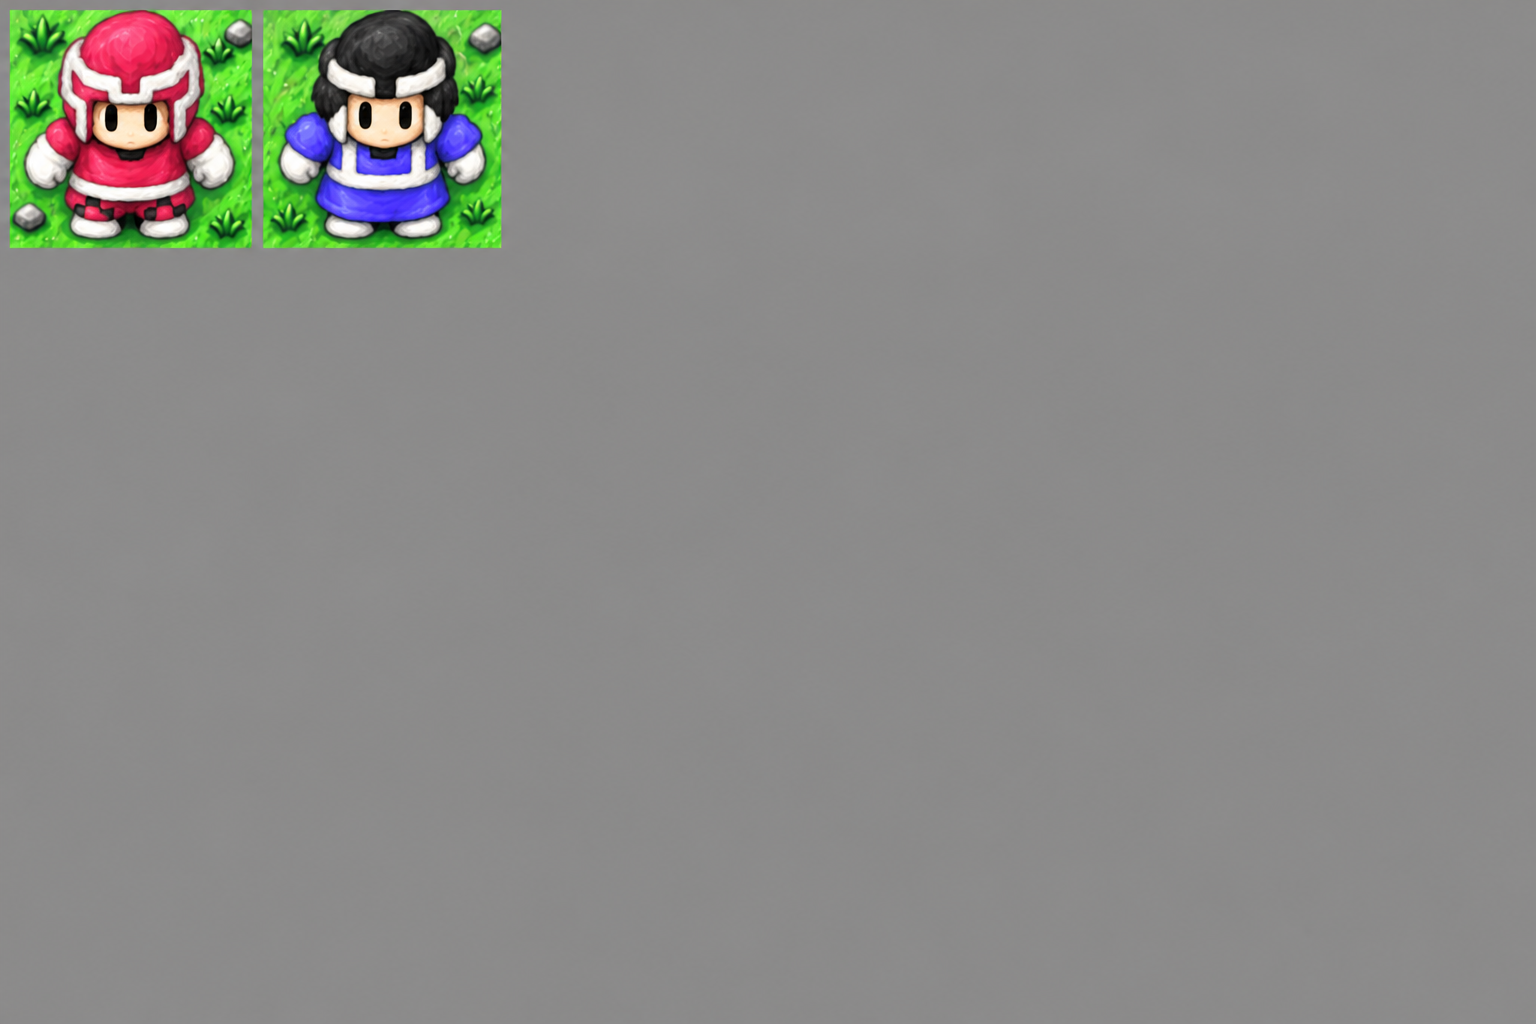
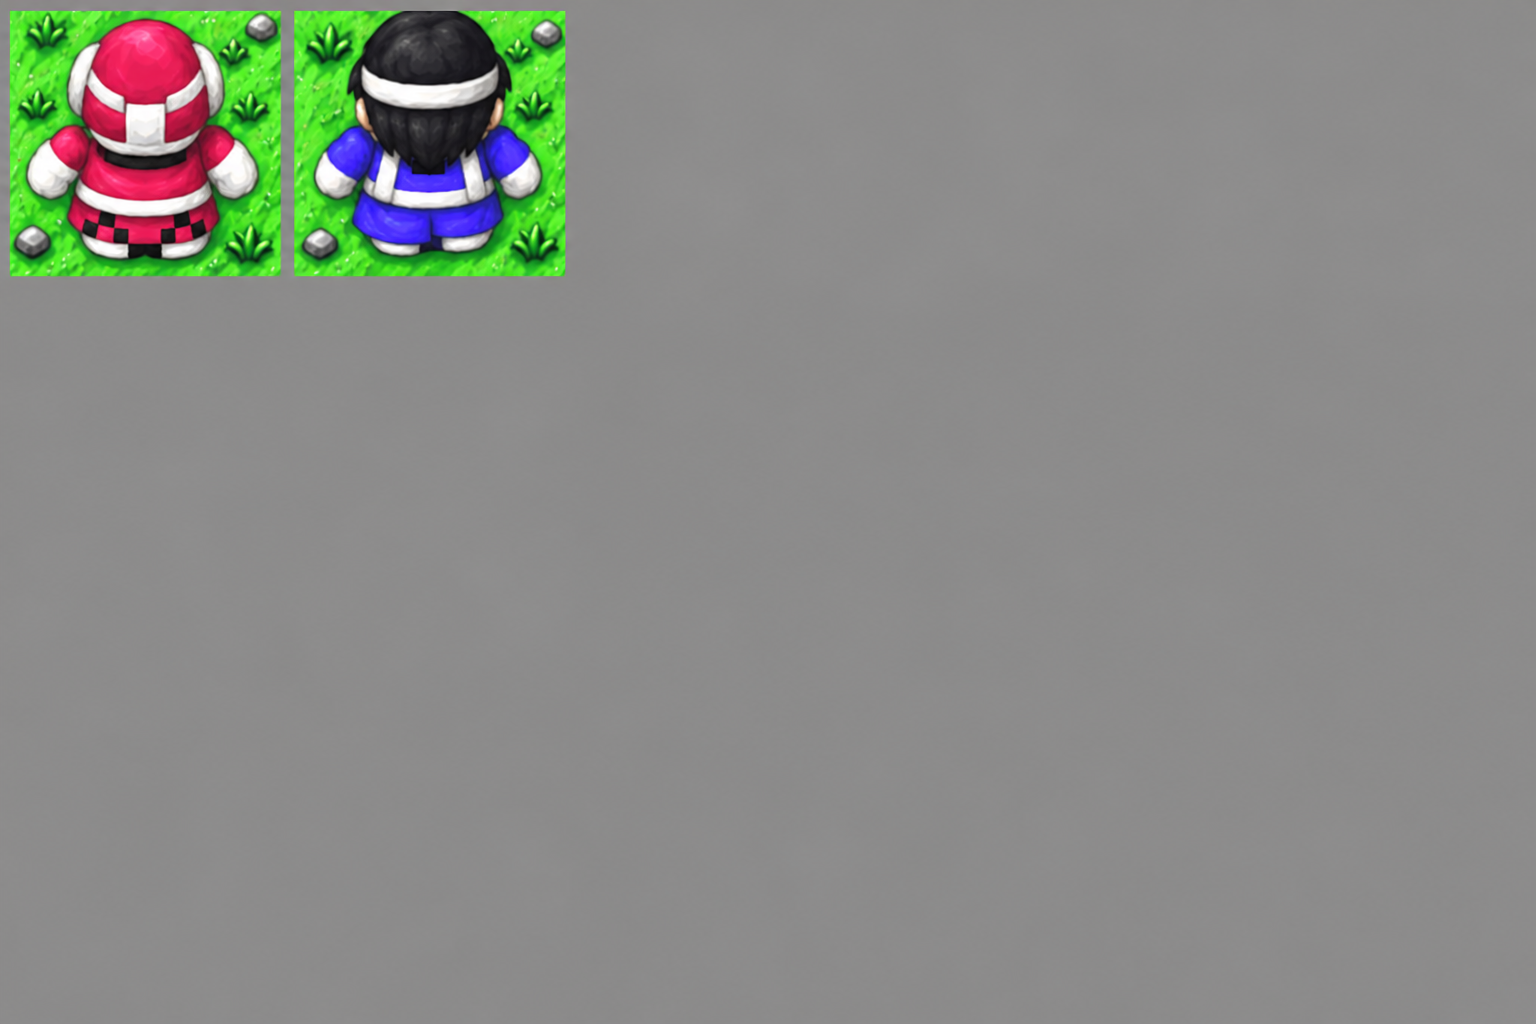
Map tiles: colour by brightness for big hue changes (nesrecomp 0024 rgbl:/rgbdl:), fixes the Endor arena floor; pink crowd tile back to its earlier painting; pack 0.20.0
Claude-Session: https://claude.ai/code/session_01NRrbJ2Nn1D8tAHPZXLSboV

Changed region(s): [[0.0, 0.0, 0.375, 0.2812]]

diff --git a/tools/make_field_hdpack.py b/tools/make_field_hdpack.py
@@ -46,7 +46,7 @@ opposite edges meet without a visible seam.
 
 usage: make_field_hdpack.py FIELD_TILES ART OUTDIR [--report FILE]
 """
-import argparse, collections, hashlib, itertools, json, os, sys
+import argparse, colorsys, collections, hashlib, itertools, json, os, sys
 import numpy as np
 from PIL import Image
 from scipy import ndimage
@@ -65,6 +65,10 @@ def tileable(px):
     return axis(g), axis(g.T)
 
 FLASH = bytes([0x0F, 0x16, 0x16, 0x16])         # the damage-floor flash, every sub-palette
+HUE_LUM = 45          # degrees: past this hue change, colour by brightness if it fits much better
+LUM_RATIO = 0.64      # ... its error below this share of the per-channel map's (checked by eye: above it,
+                      # tiles that mix two hues, such as gold trim or orange grass with blue dots, lose a hue)
+LUM_LOG = open(os.environ['DW4_LUM_LOG'], 'w') if os.environ.get('DW4_LUM_LOG') else None
 FLASH_XF = ',rgb:1.30/8/0.30/0/0.25/0'        # art tinted red: grey stone -> about $16
 SEAM_MAX = 30   # mean edge-band colour difference (0-255) above which an axis is left alone
 
@@ -126,7 +130,7 @@ def main():
     def fade(pal, k): return bytes(0x0F if (c & 0x3F) < 0x10 * k or (c & 0x0F) >= 0x0D else c - 0x10 * k for c in pal)
     night = lambda r: all(u.endswith('(night)') for u in r['used_in'])
     versions = []        # dicts: id, item, chr, pal, img, bright, uses, real
-    missing, seamless, nights = [], 0, 0
+    missing, seamless, nights, lums = [], 0, 0, 0
     for iid, vs in items.items():
         # with ids.json the fingerprint is the only match: a tile that is new
         # in this build must never pick up art that belongs to another tile
@@ -159,6 +163,36 @@ def main():
                 g = float(np.clip(g, 0, 3)); fit.append((g, my - g * mx))
                 err += float((W * (g * x + my - g * mx - y) ** 2).sum())
             return fit, err
+        LW = np.array([0.299, 0.587, 0.114])
+        def lum_fit(pal, src=None):
+            # colour by brightness: each channel = a*L + b of the art's
+            # brightness L, fitted from the art's colours to `pal`'s
+            X = np.array([rgb((src or ref)[k]) for k in range(4)]) @ LW
+            Y = np.array([rgb(pal[k]) for k in range(4)]); fit, err = [], 0.0
+            mx = (W * X).sum() / W.sum(); vx = (W * (X - mx) ** 2).sum()
+            for ch in range(3):
+                y = Y[:, ch]; my = (W * y).sum() / W.sum()
+                g = (W * (X - mx) * (y - my)).sum() / vx if vx > 50 else 0.0
+                g = float(np.clip(g, 0, 3)); fit.append((g, my - g * mx))
+                err += float((W * (g * X + my - g * mx - y) ** 2).sum())
+            return fit, err
+        def hue_shift(pal, src=None):
+            # how far the tile's colours turn round the colour wheel (degrees,
+            # weighted by use; greys and black don't count)
+            tot = wsum = 0.0
+            for k in range(1, 4):
+                a, b = rgb((src or ref)[k]) / 255, rgb(pal[k]) / 255
+                ha, sa, _ = colorsys.rgb_to_hsv(*a); hb, sb, _ = colorsys.rgb_to_hsv(*b)
+                if sa < 0.2 or sb < 0.2: continue
+                d = abs(ha - hb) * 360; d = min(d, 360 - d)
+                tot += cnt[k] * d; wsum += cnt[k]
+            return tot / wsum if wsum else 0.0
+        def use_lum(pal, src=None):
+            # a big hue change that a per-channel map gets wrong (green grass
+            # in a pale-yellow sand palette came out coral-pink)
+            h, el, ec = hue_shift(pal, src), lum_fit(pal, src)[1], fit_of(pal, src)[1]
+            if LUM_LOG: LUM_LOG.write(f'{iid}\t{pal.hex()}\t{(src or ref).hex()}\t{h:.0f}\t{el:.0f}\t{ec:.0f}\n')
+            return h > HUE_LUM and el < LUM_RATIO * ec
         # The game animates some tiles by swapping colours (the overworld sea
         # cycles 0F 30 21 12 <-> 0F 30 12 21). A palette that is only a
         # reordering of another is the same picture: the whole group uses the
@@ -173,17 +207,21 @@ def main():
         for r in vs:
             pal = bytes.fromhex(r['nes_colors'])
             over = os.path.join(a.art, aid + r['id'][len(iid):] + '.png') if r['id'] != iid else None
-            fit = fits[rep[group(r['nes_colors'])]][0]
+            rp = bytes.fromhex(rep[group(r['nes_colors'])])
+            lum = use_lum(rp)
+            fit = lum_fit(rp)[0] if lum else fits[rep[group(r['nes_colors'])]][0]
             xf = ''
             if over and os.path.exists(over):
                 idx = add_img(load(over), aid + r['id'][len(iid):])
             else:
                 if main_idx is None: main_idx = add_img(base_img, aid)
                 idx = main_idx
-                if any(abs(g - 1) > 0.06 or abs(o) > 8 for g, o in fit):
-                    # recoloured by the player at load time (patch 0011), not stored
+                if lum or any(abs(g - 1) > 0.06 or abs(o) > 8 for g, o in fit):
+                    # recoloured by the player at load time (patch 0011; by
+                    # brightness with rgbl:, patch 0024), not stored
                     gkey = tuple((round(g / 0.05) * 0.05, round(o / 4) * 4) for g, o in fit)
-                    xf = ',rgb:' + '/'.join(f'{g:.2f}/{int(o)}' for g, o in gkey)
+                    xf = (',rgbl:' if lum else ',rgb:') + '/'.join(f'{g:.2f}/{int(o)}' for g, o in gkey)
+                    if lum: lums += 1
                     if gkey not in tinted: tinted[gkey] = True; nights += 1
             uses = len(r['used_in'])
             versions.append(dict(id=r['id'], item=iid, chr=t, pal=pal, img=idx, xf=xf, bright=1.0, uses=uses, real=True))
@@ -195,11 +233,11 @@ def main():
                 fp = fade(pal, k)
                 if all((c & 0x0F) >= 0x0D or c == 0x0F for c in fp[1:]) and fp[0] == 0x0F and k == 3:
                     continue                                   # black: nothing to draw
-                ffit = fit_of(fp, src)[0]
+                ffit = (lum_fit if lum else fit_of)(fp, src)[0]
                 gkey = tuple((round(g / 0.05) * 0.05, round(o / 4) * 4) for g, o in ffit)
                 # applied while drawing (rgbd:, patch 0022): fade frames are few,
                 # and a decoded copy per step would cost ~650 MB
-                fxf = ',rgbd:' + '/'.join(f'{g:.2f}/{int(o)}' for g, o in gkey)
+                fxf = (',rgbdl:' if lum else ',rgbd:') + '/'.join(f'{g:.2f}/{int(o)}' for g, o in gkey)
                 versions.append(dict(id=f'{r["id"]}~{k}', item=iid, chr=t, pal=fp, img=idx, xf=fxf, bright=1.0,
                                      uses=uses / (10 * k), real=False))
 
@@ -278,7 +316,7 @@ def main():
     print(f'{len(items) - len(missing)} map tiles ({seamless} made seamless, {nights} palette recolours), '
           f'{sum(v["real"] for v in versions)} palette versions + {sum(not v["real"] for v in versions)} fade steps, '
           f'{len(tiles)} tile entries, '
-          f'{len(conds)} neighbour conditions, {unresolved} unresolved -> {hires}')
+          f'{len(conds)} neighbour conditions, {unresolved} unresolved, {lums} coloured by brightness -> {hires}')
     if missing: print(f'  no art yet for {len(missing)}: {" ".join(missing[:20])}{" ..." if len(missing) > 20 else ""}')
     if a.report:
         json.dump({'missing': missing, 'seamless': seamless, 'palette_recolours': nights, 'entries': len(tiles), 'conditions': len(conds),

diff --git a/tools/slice_field_sheets.py b/tools/slice_field_sheets.py
@@ -71,7 +71,8 @@ def main():
     ap.add_argument('--match', type=float, default=MATCH, help='colour pull toward the original (0-1)'); a = ap.parse_args()
     meta = os.path.join(a.sheets, 'sheets.json')
     if not os.path.exists(meta): print('  no generated sheets'); return
-    sheets = json.load(open(meta))['sheets']
+    meta_j = json.load(open(meta)); sheets = meta_j['sheets']
+    only = meta_j.get('only', {})          # sheet -> the only tiles to cut from it (others redone elsewhere)
     tiles = art_tiles(json.load(open(a.field_tiles)))
     os.makedirs(a.out, exist_ok=True); n = 0
     for name, cells in sheets.items():
@@ -86,6 +87,7 @@ def main():
         placed = Image.new('RGB', (W, H), (140, 140, 140))
         placed.paste(res.resize((round(W * s), round(H * s)), Image.LANCZOS), (dx, dy))
         for i, aid in enumerate(cells):
+            if name in only and aid not in only[name]: continue
             x, y = cell_origin(i)
             cut = placed.crop((x + INSET, y + INSET, x + CELL - INSET, y + CELL - INSET)).resize((160, 160), Image.LANCZOS)
             if a.match > 0: cut = colour_match(cut, ref.crop((x, y, x + CELL, y + CELL)), a.match)

diff --git a/CLAUDE.md b/CLAUDE.md
@@ -37,7 +37,7 @@ README.md is the full reference; this file is the working summary.
   Captures are cached beside OUTDIR (`*-capture/.stamp` = hash of host, ROM, route, capture script).
   A full build takes ~45 min on 2 cores; peak RAM ~1.1 GB per host process with the pack.
 - **Bump `HD_VERSION` in `package_macos_app.sh` whenever the pack's content changes** (the mod
-  catalog keys on it). Current: 0.19.0. Pack name: "HD text, windows, monsters, maps, characters, title and casino".
+  catalog keys on it). Current: 0.20.0. Pack name: "HD text, windows, monsters, maps, characters, title and casino".
 - The nesmod package limit is 256 MiB; the pack is ~187 MiB — watch its size (`du -sb OUTDIR`). Never store
   recoloured or turned copies of art: emit `rgb:`/`rot:` tokens on the tile line (patch 0011) instead.
 
@@ -102,6 +102,8 @@ README.md is the full reference; this file is the working summary.
   is skipped where the painted edges differ (SEAM_MAX). Screen-fade steps (and characters' night, also a
   -$10 step) = the art recoloured to the step's own NES colours with `rgbd:` (applied while drawing, patch
   0022: no decoded copy; `rgb:` copies for every step cost ~650 MB). Battle monsters still fade by brightness.
+  Palettes that turn the hue > 45 degrees use `rgbl:`/`rgbdl:` (patch 0024: colour by the art's brightness) when
+  that fits under 0.64x the per-channel error (`HUE_LUM`, `LUM_RATIO`; `DW4_LUM_LOG=FILE` logs the choices).
 - Title layers are gated on RAM $0500=$0F and $0026=$77 (title only), or they flash on black frames.
 - Power-on screens: `make_font_hdpack.py --screen/--sprites` smooth every cell in context (whole screen), coloured
   exact-palette entry + white `defaultTile=Y` copy. Intro sprites use pattern table $1000.

diff --git a/FUTURE.md b/FUTURE.md
@@ -108,15 +108,14 @@ but are never drawn. Endor crowd frames T128-T129 were regenerated (R01, facing 
 (a dragon drawn as four facings of one character) redone as one picture (C057W), pack 0.19.0. Party spells and cutscenes
 are still unreached (chapter 1 save).
 
-### 4b. Endor arena floor in the wrong colour (found 2026-11-14)
-- **What:** in Endor's arena (map 4 sub 7) the floor is the grass tile drawn in
-  the game's pale-yellow sand palette. The pack recolours the owner's grass art
-  to that palette with its affine colour map (`rgb:`), and the result is
-  coral-pink with purple tufts instead of pale yellow with dark dots.
-- **How:** look at the fit for that palette in `make_field_hdpack.py` (an
-  affine map from green to pale yellow is a poor fit); options are a different
-  fit for big hue changes (map by brightness onto the target colours), or
-  owner art for the sand floor.
+### 4b. Endor arena floor in the wrong colour: done (pack 0.20.0)
+Palettes that turn the tile's hue more than 45 degrees are coloured by the
+art's brightness (`rgbl:`, nesrecomp patch 0024) when that fits clearly better
+(error under 0.64x the per-channel map's): 133 tile versions, checked by eye
+(grey stone that came out pink or gold, snowy trees that came out purple, the
+arena's sand). Above that ratio tiles mixing two hues (gold trim, orange grass
+with blue dots) lost a hue, so they keep the per-channel map. The arena
+floor's edge strips (top and right) still look more orange than the 8-bit.
 
 ### 5. Character art that doesn't line up
 - **Why:** the sprite builder's fit report says "redo" for C007, C011, C043,

diff --git a/README.md b/README.md
@@ -396,6 +396,10 @@ They are framework bugs, kept here until they can go upstream:
   white through screen fades and even show text the game hides with an
   all-black palette (the "Chapter 1" title before it fades in); now it fades
   with the screen and coloured text keeps its colour.
+- `0024-hdpack-recolour-by-brightness.patch` — `rgbl:` / `rgbdl:` tile tokens: the
+  same colour map as `rgb:` / `rgbd:` but on the art's brightness (each channel =
+  L*G + O), for palettes that change the hue a lot (green grass drawn in the
+  Endor arena's pale-yellow sand palette came out coral-pink with a per-channel map).
 - `0022-hdpack-draw-time-recolour.patch` — `rgbd:` on a `<tile>` line: the
   same per-channel colour map as `rgb:` (patch 0011), applied while drawing
   instead of at load, so the entry shares the untouched decoded block. Used
